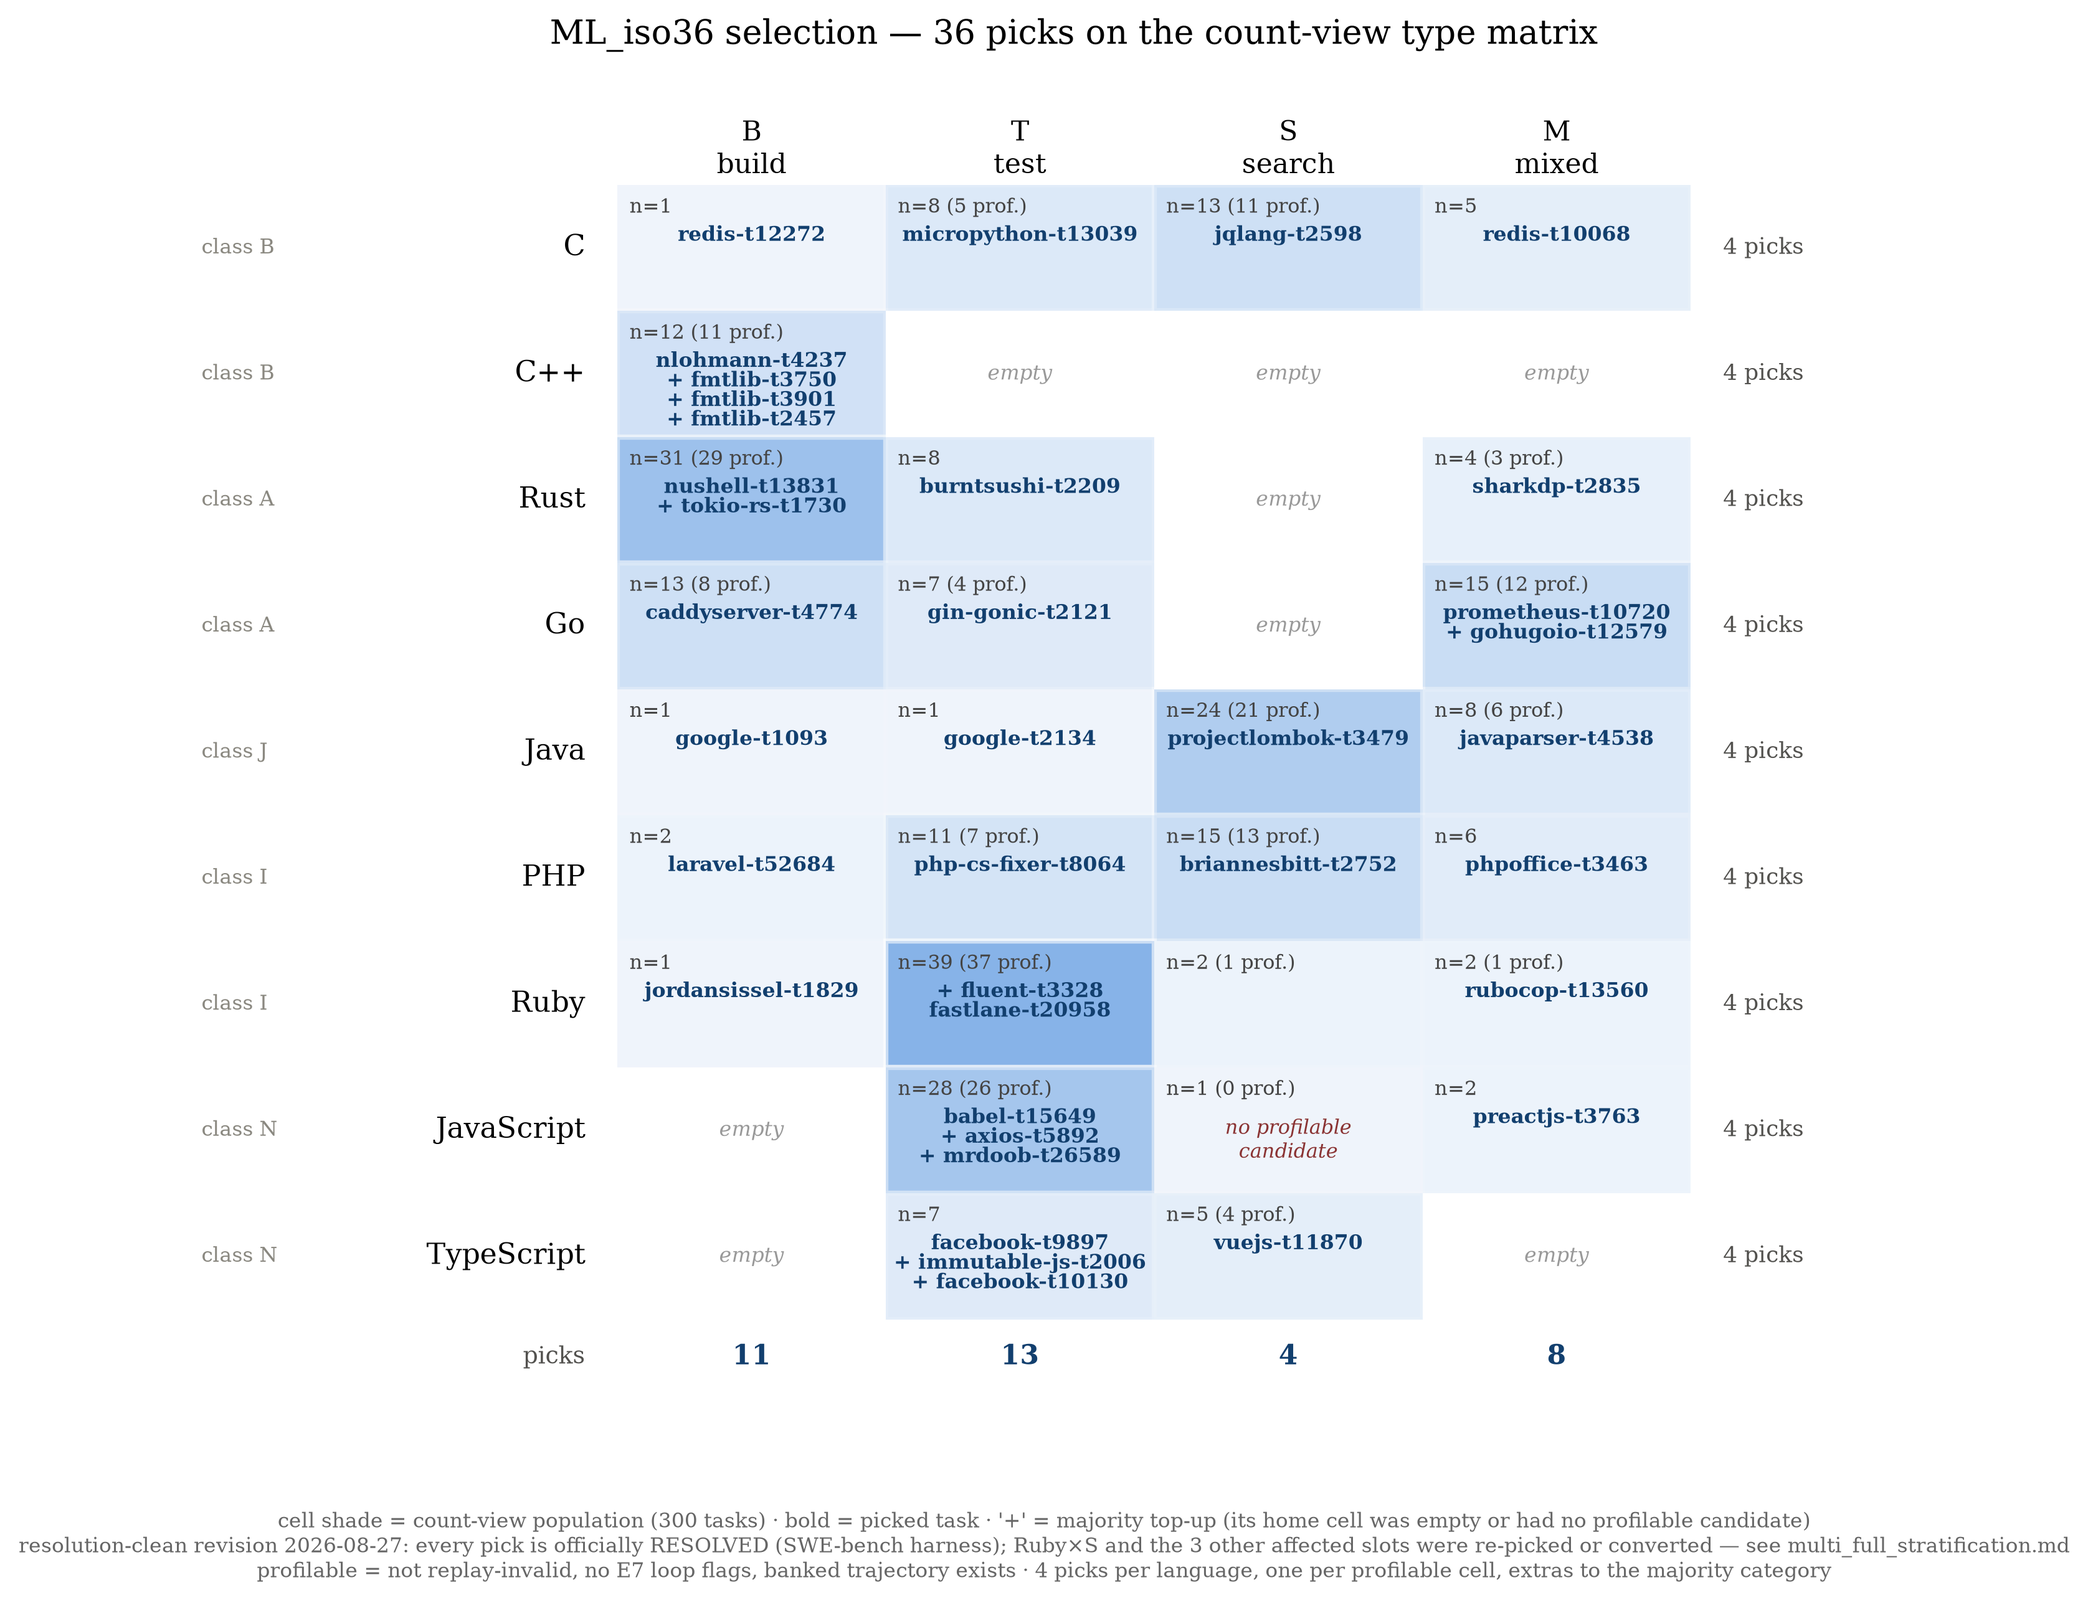
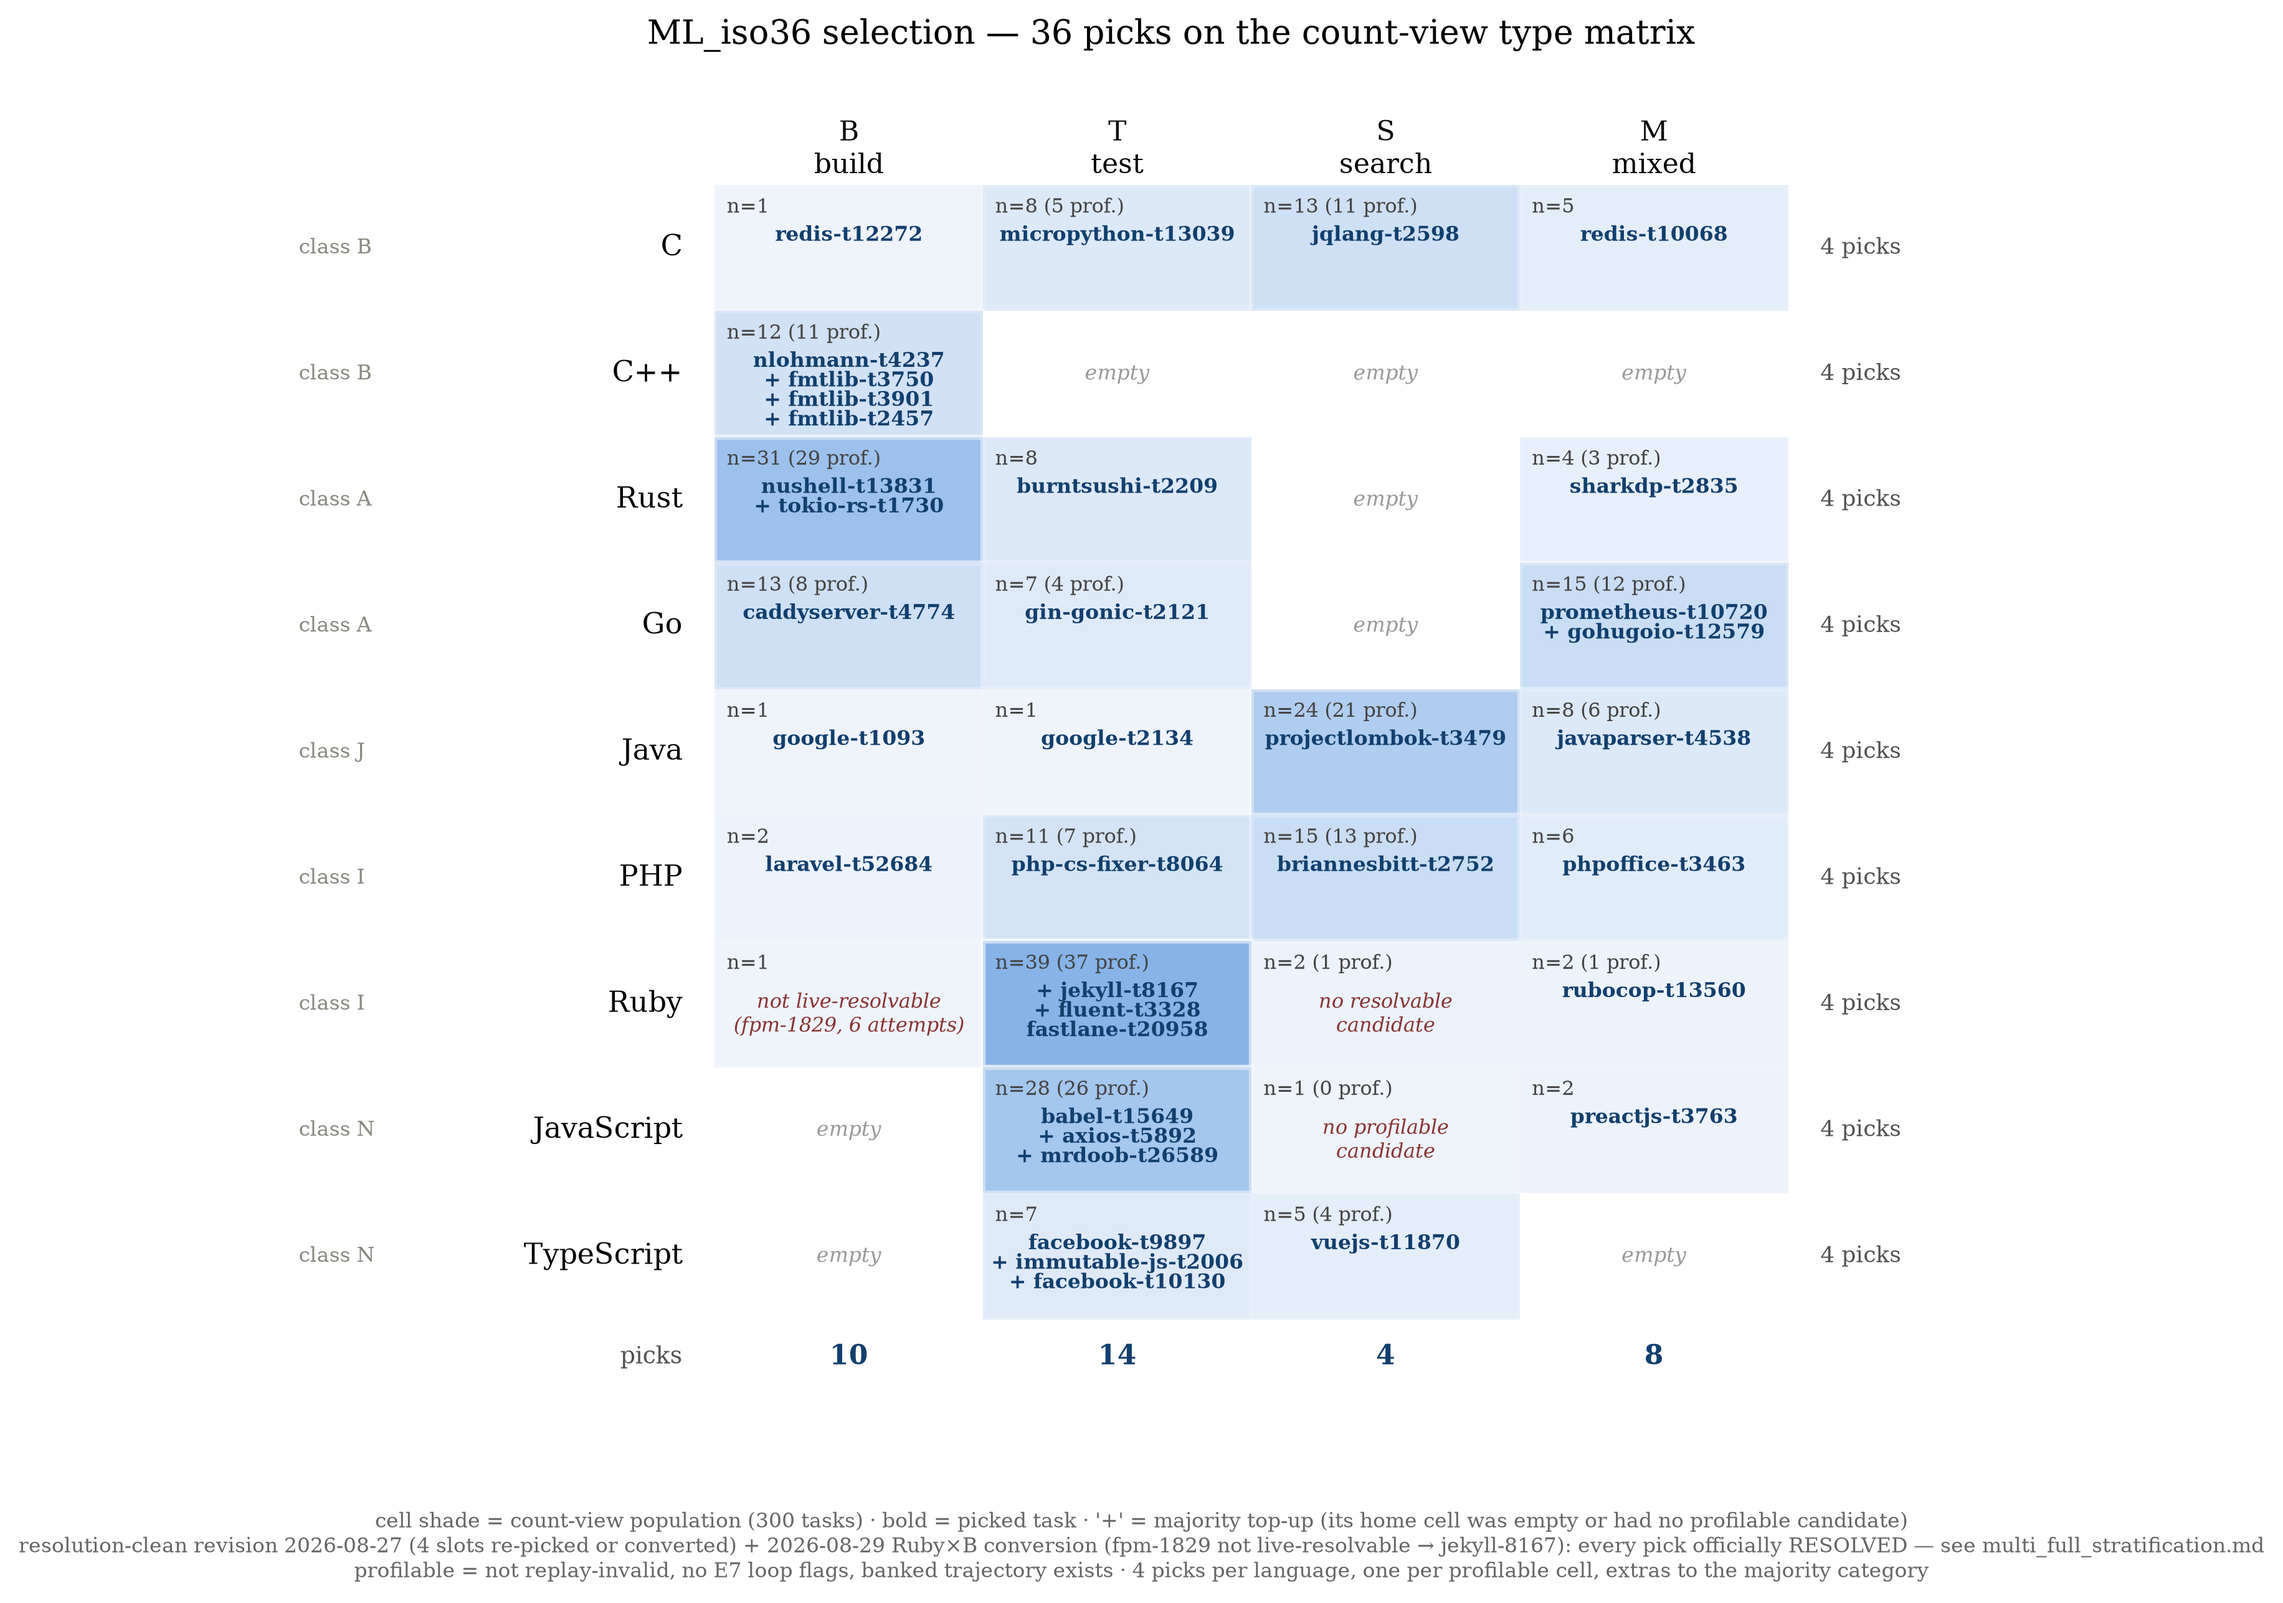
docs: stratification matrix updated for 08-27 resolution-clean + 08-29 jekyll revisions; selection figure annotates resolution-excluded Ruby cells

diff --git a/local_agents/kit/plot/plot_iso36_selection.py b/local_agents/kit/plot/plot_iso36_selection.py
@@ -66,6 +66,13 @@ for i, lang in enumerate(LANGS):
         if n and not e:
             ax.text(j + 0.5, i + 0.58, "no profilable\ncandidate", ha="center", va="center",
                     fontsize=7.6, color="#8a3333", style="italic")
+        # cells whose members are profilable but were excluded by the resolution screening —
+        # the audit trail is the TSV `why` column and the doc's Revisions section
+        RESOLUTION_EXCLUDED = {("Ruby", "B"): "not live-resolvable\n(fpm-1829, 6 attempts)",
+                               ("Ruby", "S"): "no resolvable\ncandidate"}
+        if n and e and not picks.get((lang, lab)) and (lang, lab) in RESOLUTION_EXCLUDED:
+            ax.text(j + 0.5, i + 0.58, RESOLUTION_EXCLUDED[(lang, lab)], ha="center",
+                    va="center", fontsize=7.6, color="#8a3333", style="italic")
         ps = picks.get((lang, lab), [])
         for k, (short, topup, fence) in enumerate(ps):
             ax.text(j + 0.5, i + 0.40 + 0.155 * k, ("+ " if topup else "") + short,
@@ -90,8 +97,8 @@ ax.set_title("ML_iso36 selection — 36 picks on the count-view type matrix", fo
 fig.text(0.5, 0.015,
          "cell shade = count-view population (300 tasks) · bold = picked task · '+' = majority top-up "
          "(its home cell was empty or had no profilable candidate)\n"
-         "resolution-clean revision 2026-08-27: every pick is officially RESOLVED (SWE-bench harness); "
-         "Ruby×S and the 3 other affected slots were re-picked or converted — see multi_full_stratification.md\n"
+         "resolution-clean revision 2026-08-27 (4 slots re-picked or converted) + 2026-08-29 Ruby×B conversion "
+         "(fpm-1829 not live-resolvable → jekyll-8167): every pick officially RESOLVED — see multi_full_stratification.md\n"
          "profilable = not replay-invalid, no E7 loop flags, banked trajectory exists · "
          "4 picks per language, one per profilable cell, extras to the majority category",
          ha="center", fontsize=8, color="#666666")

diff --git a/docs/multi_full_stratification.md b/docs/multi_full_stratification.md
@@ -723,22 +723,39 @@ order is recorded as the runner-up.
 
 *Top-ups* walk down the majority cell's same ranking, preferring fresh repos.
 
-## The realized matrix (picks per cell)
+## The realized matrix (picks per cell) — as revised 2026-08-29
 
 | language | B | T | S | M | top-ups |
 | --- | --- | --- | --- | --- | --- |
-| C | redis-12272 | micropython-13039 | jq-2598 | valkey-1499 | — |
+| C | redis-12272 | micropython-13039 | jq-2598 | redis-10068 | — |
 | C++ | nlohmann-4237 | *empty* | *empty* | *empty* | + fmt-3750, fmt-3901, fmt-2457 (B) |
 | Rust | nushell-13831 | ripgrep-2209 | *empty* | bat-2835 | + axum-1730 (B) |
 | Go | caddy-4774 | gin-2121 | *empty* | prometheus-10720 | + hugo-12579 (M) |
 | Java | gson-1093 | gson-2134 | lombok-3479 | javaparser-4538 | — |
 | PHP | laravel-52684 | php-cs-fixer-8064 | carbon-2752 | phpspreadsheet-3463 | — |
-| Ruby | fpm-1829 | fastlane-20958 | rubocop-13396 | rubocop-13560 | — |
-| JavaScript | *empty* | babel-15649 | *(n=1, unprofilable)* | preact-3763 | + axios-6539, three.js-26589 (T) |
-| TypeScript | *empty* | docusaurus-9897 | vuejs-core-11589 | *empty* | + immutable-js-2006, docusaurus-10130 (T) |
+| Ruby | *(n=1, not live-resolvable)* | fastlane-20958 | *(no resolvable candidate)* | rubocop-13560 | + jekyll-8167, fluentd-3328 (T) |
+| JavaScript | *empty* | babel-15649 | *(n=1, unprofilable)* | preact-3763 | + axios-5892, three.js-26589 (T) |
+| TypeScript | *empty* | docusaurus-9897 | vuejs-core-11870 | *empty* | + immutable-js-2006, docusaurus-10130 (T) |
 
-Column sums: **B 11 / T 12 / S 5 / M 8** = 36 picks; 27 distinct cells covered, 31 repos,
-Σ tool-fence 4,797 core-s (17 → 655 per task).
+Column sums: **B 10 / T 14 / S 4 / M 8** = 36 picks; 25 distinct cells covered, 31 repos,
+Σ tool-fence 4,741 core-s (5 → 655 per task).
+
+## Revisions (both encoded in the TSV `why` column; the rule itself is unchanged)
+
+- **2026-08-27 — resolution-clean revision.** Requirement added: a pick's census episode must
+  be *officially resolved* (SWE-bench harness verdict), so live P7 re-runs have a resolvable
+  reference. Four picks replaced by walking down the recorded rankings:
+  valkey-1499 → redis-10068 (C×M), vuejs-core-11589 → vuejs-core-11870 (TS×S),
+  axios-6539 → axios-5892 (JS top-up), and rubocop-13396 (unresolved, no patch) with its
+  Ruby×S cell left without a resolvable member — the slot **converted** to a majority-T
+  top-up, fluentd-3328.
+- **2026-08-29 — Ruby×B conversion.** The P7 live campaign showed fpm-1829 (the cell's only
+  member) is not *live-resolvable*: 6 independent live attempts at temp 0.6 all failed the
+  same hidden reject-path tests — the issue text underspecifies them, so resolution measures
+  interpretation luck (full analysis in the retry campaign notes). The slot converted to the
+  next majority-T top-up in the 2026-08-27 ranking's walk-down, **jekyll-8167** (runner-up
+  faker-2705); both candidates' banked ws02 patches were verified resolved by official eval
+  before the swap, and jekyll-8167's fresh P7 live episode resolved on its first attempt.
 
 ## Honest limitations (all recorded per-row in the TSV `why` column)
 
@@ -747,8 +764,11 @@ Column sums: **B 11 / T 12 / S 5 / M 8** = 36 picks; 27 distinct cells covered, 
   (W-CONFOUND), exactly as in the 30-selection.
 - **Java×B and Java×T are forced gson singletons** (n=1 cells), so those two cells share one
   repo.
-- **Ruby×S and Ruby×M are forced single-profilable picks**; rubocop-13396 additionally carries
-  a low classified % (24 % — one large git operation dominates its fence).
+- **Ruby is 3/4 majority-T typed**: both its B and S cells lost their only viable members to
+  resolution screening (see Revisions), so only fastlane-20958 (T) and rubocop-13560 (M) fill
+  cells and the other two slots are T top-ups. Ruby's B and S count-types exist in the
+  population but are unrepresented in the profiled set — a recorded coverage gap, not a
+  sampler artifact.
 - **The search column is small (5 picks) and its members are small** (5–213 core-s): a fact
   about the population — count-search-led tasks are rare and mostly tiny — not about the
   sampler. Several PHP/Ruby picks sit under the historical 20 core-s magnitude gate; they are
